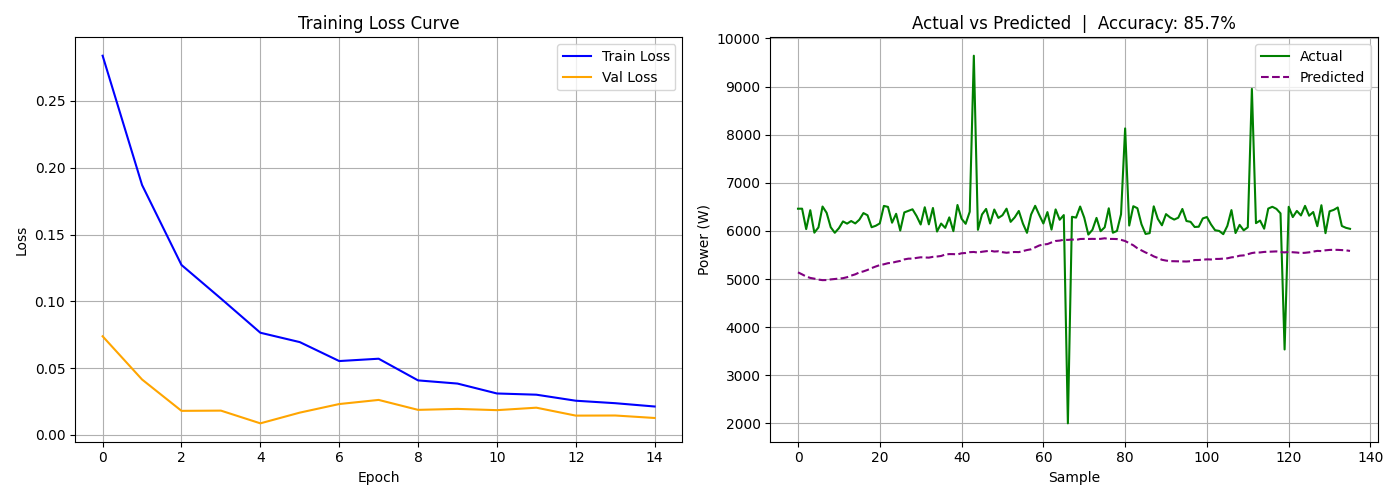
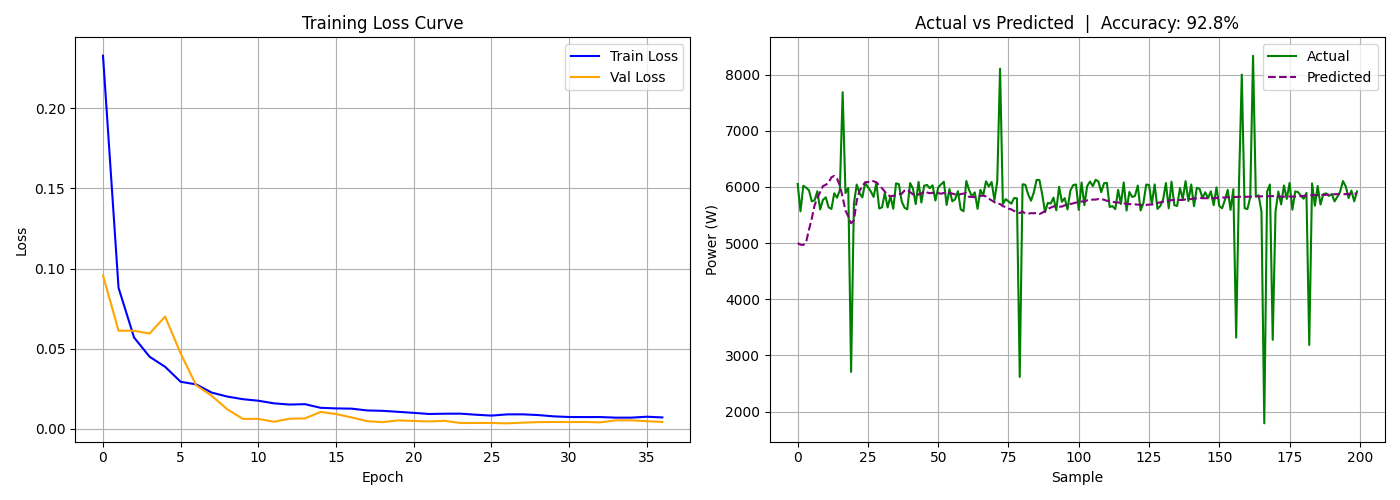
Updated for hosting website live

diff --git a/frontend/script.js b/frontend/script.js
@@ -3,10 +3,10 @@ const API = "";
 
 // ── Tab titles ──
 const tabTitles = {
-  dashboard:  "Overview Dashboard",
+  dashboard: "Overview Dashboard",
   prediction: "LSTM Prediction",
-  history:    "Energy History",
-  alerts:     "Active Alerts"
+  history: "Energy History",
+  alerts: "Active Alerts"
 };
 
 function showTab(name, btn) {
@@ -16,9 +16,9 @@ function showTab(name, btn) {
   btn.classList.add("active");
   document.getElementById("tab-title").textContent = tabTitles[name];
 
-  if (name === "history")    loadHistory();
+  if (name === "history") loadHistory();
   if (name === "prediction") loadPrediction();
-  if (name === "alerts")     loadAlerts();
+  if (name === "alerts") loadAlerts();
 }
 
 // ── Clock ──
@@ -29,10 +29,10 @@ setInterval(() => {
 
 // ── Live chart setup ──
 const liveLabels = [];
-const liveData   = [];
+const liveData = [];
 const MAX_POINTS = 20;
 
-const liveCtx   = document.getElementById("liveChart").getContext("2d");
+const liveCtx = document.getElementById("liveChart").getContext("2d");
 const liveChart = new Chart(liveCtx, {
   type: "line",
   data: {
@@ -70,7 +70,7 @@ const liveChart = new Chart(liveCtx, {
 });
 
 // ── Prediction chart (dashboard tab) ──
-const predCtx   = document.getElementById("predChart").getContext("2d");
+const predCtx = document.getElementById("predChart").getContext("2d");
 const predChart = new Chart(predCtx, {
   type: "line",
   data: {
@@ -108,7 +108,7 @@ const predChart = new Chart(predCtx, {
 });
 
 // ── Forecast chart (Prediction tab) ──
-const forecastCtx   = document.getElementById("forecastChart").getContext("2d");
+const forecastCtx = document.getElementById("forecastChart").getContext("2d");
 const forecastChart = new Chart(forecastCtx, {
   type: "line",
   data: {
@@ -150,7 +150,7 @@ const forecastChart = new Chart(forecastCtx, {
 // ══════════════════════════════════════
 async function fetchStatus() {
   try {
-    const res  = await fetch(`${API}/api/status`);
+    const res = await fetch(`${API}/api/status`);
     const data = await res.json();
 
     if (data.error) {
@@ -185,7 +185,7 @@ async function fetchStatus() {
     liveChart.update();
 
     // Update system status sidebar
-    updateSystemStatus("server",    true);
+    updateSystemStatus("server", true);
     updateSystemStatus("simulator", data.simulator_active);
 
     // Generate AI suggestions
@@ -193,7 +193,7 @@ async function fetchStatus() {
 
   } catch (err) {
     // Server not reachable
-    updateSystemStatus("server",    false);
+    updateSystemStatus("server", false);
     updateSystemStatus("simulator", false);
   }
 }
@@ -203,17 +203,17 @@ function updateSystemStatus(component, isOnline) {
   let elId = `${component}-status`;
   if (component === "server") elId = "srv-status";
   if (component === "simulator") elId = "esp-status";
-  
+
   const el = document.getElementById(elId);
   if (!el) return;
 
   if (component === "server") {
     el.textContent = isOnline ? "● Online" : "● Offline";
-    el.className   = isOnline ? "ok" : "warn";
+    el.className = isOnline ? "ok" : "warn";
   }
   if (component === "simulator") {
     el.textContent = isOnline ? "● Sending data" : "● Not running";
-    el.className   = isOnline ? "ok" : "warn";
+    el.className = isOnline ? "ok" : "warn";
   }
 }
 
@@ -285,7 +285,7 @@ function generateSuggestions(powerKw, temp) {
 // ══════════════════════════════════════
 async function fetchAlerts() {
   try {
-    const res  = await fetch(`${API}/api/alerts`);
+    const res = await fetch(`${API}/api/alerts`);
     const data = await res.json();
 
     const count = data.count || 0;
@@ -309,8 +309,8 @@ async function fetchAlerts() {
 // ══════════════════════════════════════
 async function loadHistory() {
   try {
-    const res   = await fetch(`${API}/api/readings?limit=20`);
-    const data  = await res.json();
+    const res = await fetch(`${API}/api/readings?limit=20`);
+    const data = await res.json();
     const tbody = document.getElementById("history-tbody");
 
     if (!data.readings || data.readings.length === 0) {
@@ -327,9 +327,9 @@ async function loadHistory() {
       const time = new Date(r.timestamp + "Z").toLocaleTimeString();
       return `<tr>
         <td>${time}</td>
-        <td>${r.voltage  ?? "--"}</td>
-        <td>${r.current  ?? "--"}</td>
-        <td>${r.power    ?? "--"}</td>
+        <td>${r.voltage ?? "--"}</td>
+        <td>${r.current ?? "--"}</td>
+        <td>${r.power ?? "--"}</td>
         <td>${r.temperature ?? "--"}</td>
       </tr>`;
     }).join("");
@@ -345,7 +345,7 @@ async function loadHistory() {
 // ══════════════════════════════════════
 async function loadPrediction() {
   try {
-    const res  = await fetch(`${API}/api/prediction`);
+    const res = await fetch(`${API}/api/prediction`);
     const data = await res.json();
 
     if (data.message || !data.predictions) {
@@ -361,22 +361,22 @@ async function loadPrediction() {
     const valuesW = data.predictions.map(p => p.power_w);
     const valuesKW = data.predictions.map(p => p.power_kw);
 
-    predChart.data.labels                = labels;
-    predChart.data.datasets[0].data      = valuesW;
+    predChart.data.labels = labels;
+    predChart.data.datasets[0].data = valuesW;
     predChart.update();
 
     // Update large forecast chart
-    forecastChart.data.labels           = labels;
+    forecastChart.data.labels = labels;
     forecastChart.data.datasets[0].data = valuesKW;
     forecastChart.update();
 
     // Fill prediction table
     const tbody = document.getElementById("pred-tbody");
-    
+
     // Dynamic logic based on Average + Variance (Standard Deviation)
     const sumKw = data.predictions.reduce((acc, p) => acc + p.power_kw, 0);
     const avgKw = sumKw / data.predictions.length;
-    
+
     const variance = data.predictions.reduce((acc, p) => acc + Math.pow(p.power_kw - avgKw, 2), 0) / data.predictions.length;
     let stdDev = Math.sqrt(variance);
     if (stdDev < 0.02) stdDev = 0.02; // Minimum variation
@@ -388,15 +388,15 @@ async function loadPrediction() {
       let status = "Normal";
       let bg = "rgba(0, 229, 160, 0.15)";
       let color = "#00e5a0";
-      
+
       if (stdDev <= 0.02 && Math.abs(p.power_kw - avgKw) < 0.05) {
         // Almost flat line, no real peaks
         status = "Normal";
-      } else if (p.power_kw >= thresholdPeak) { 
+      } else if (p.power_kw >= thresholdPeak) {
         status = "Peak"; color = "#ef4444"; bg = "rgba(239, 68, 68, 0.15)";
-      } else if (p.power_kw >= thresholdHigh) { 
+      } else if (p.power_kw >= thresholdHigh) {
         status = "High"; color = "#f97316"; bg = "rgba(249, 115, 22, 0.15)";
-      } else if (i > 0 && p.power_kw > arr[i-1].power_kw) { 
+      } else if (i > 0 && p.power_kw > arr[i - 1].power_kw) {
         status = "Rising"; color = "#eab308"; bg = "rgba(234, 179, 8, 0.15)";
       }
 
@@ -404,7 +404,7 @@ async function loadPrediction() {
 
       return `
       <tr>
-        <td>${new Date(p.time + "Z").toLocaleTimeString([], {hour: '2-digit', minute:'2-digit'})}</td>
+        <td>${new Date(p.time + "Z").toLocaleTimeString([], { hour: '2-digit', minute: '2-digit' })}</td>
         <td>${p.power_kw.toFixed(3)} kW</td>
         <td>₹${estCost}</td>
         <td><span style="background: ${bg}; color: ${color}; padding: 4px 8px; border-radius: 4px; font-size: 11px; font-weight: bold;">${status}</span></td>
@@ -414,8 +414,29 @@ async function loadPrediction() {
     // Calculate overall cost and AI insights
     let totalKwh = data.predictions.reduce((sum, p) => sum + p.power_kw, 0);
     let totalCost = totalKwh * 8.5; // Rs. 8.5 per kWh
-    let potentialSavings = totalCost * 0.15; // 15% savings estimate
-    
+
+    // Calculate meaningful savings based on peak/high threshold load shifting
+    let potentialSavings = 0;
+    let savingsReason = "";
+
+    data.predictions.forEach(p => {
+      if (p.power_kw >= thresholdPeak) {
+        // Assume 25% savings by shifting peak load to off-peak hours
+        potentialSavings += (p.power_kw * 8.5) * 0.25;
+      } else if (p.power_kw >= thresholdHigh) {
+        // Assume 15% savings by optimizing high load
+        potentialSavings += (p.power_kw * 8.5) * 0.15;
+      }
+    });
+
+    if (potentialSavings > 0) {
+      savingsReason = "Based on reducing Peak usage by 25% & High usage by 15% through load shifting.";
+    } else {
+      // If no peaks, offer a baseline 5% standby optimization
+      potentialSavings = totalCost * 0.05;
+      savingsReason = "Based on a baseline 5% optimization of standby devices (no peak usage detected).";
+    }
+
     let insightsHtml = `
       <style>@keyframes spin { 100% { transform: rotate(360deg); } }</style>
       <div style="display: flex; gap: 16px; margin-bottom: 20px; flex-wrap: wrap;">
@@ -431,6 +452,7 @@ async function loadPrediction() {
           <div>
             <div style="font-size: 11px; color: #64748b; text-transform: uppercase; letter-spacing: 0.5px;">Potential Savings</div>
             <div style="font-size: 28px; font-weight: bold; color: #10b981; margin-top: 4px;">~₹${potentialSavings.toFixed(2)}</div>
+            <div style="font-size: 10px; color: #94a3b8; margin-top: 6px; line-height: 1.3; max-width: 250px;">${savingsReason}</div>
           </div>
         </div>
       </div>
@@ -442,7 +464,7 @@ async function loadPrediction() {
         </div>
       </div>
     `;
-    
+
     document.getElementById("pred-insights").innerHTML = insightsHtml;
 
     // Call backend API for Gemini insights
@@ -457,8 +479,8 @@ async function loadPrediction() {
         document.getElementById("ai-insights-container").innerHTML = aiData.html;
       }
     } catch (e) {
-       console.log("Failed to load AI insights", e);
-       document.getElementById("ai-insights-container").innerHTML = `
+      console.log("Failed to load AI insights", e);
+      document.getElementById("ai-insights-container").innerHTML = `
         <div class="suggest-item" style="border-left: 4px solid #ef4444; background: rgba(239, 68, 68, 0.05);">
           <span class="suggest-icon">⚠️</span>
           <div><strong>Connection Error:</strong> Could not connect to the backend AI service.</div>
@@ -476,9 +498,9 @@ async function loadPrediction() {
 // ══════════════════════════════════════
 async function loadAlerts() {
   try {
-    const res  = await fetch(`${API}/api/alerts`);
+    const res = await fetch(`${API}/api/alerts`);
     const data = await res.json();
-    const div  = document.getElementById("alerts-list");
+    const div = document.getElementById("alerts-list");
 
     if (!data.alerts || data.count === 0) {
       div.innerHTML = `
@@ -511,6 +533,6 @@ async function loadAlerts() {
 // START
 // ══════════════════════════════════════
 fetchStatus();
-setInterval(fetchStatus,  5000);   // live data every 5 seconds
+setInterval(fetchStatus, 5000);   // live data every 5 seconds
 fetchAlerts();
 setInterval(fetchAlerts, 10000);   // alerts every 10 seconds

diff --git a/frontend/index.html b/frontend/index.html
@@ -162,6 +162,6 @@
 
   </div><!-- /main -->
 
-  <script src="script.js"></script>
+  <script src="script.js?v=2"></script>
 </body>
 </html>

diff --git a/backend/database.py b/backend/database.py
@@ -1,11 +1,15 @@
 # database.py
 # pyrefly: ignore [missing-import]
+import os
+# pyrefly: ignore [missing-import]
 from pymongo import MongoClient
 from datetime import datetime
 
 # Connect to MongoDB (must be running on your PC)
 # Install MongoDB from: https://www.mongodb.com/try/download/community
-client = MongoClient("mongodb://localhost:27017/")
+# Uses MONGO_URL environment variable for cloud hosting, falls back to localhost.
+MONGO_URL = os.getenv("MONGO_URL", "mongodb://localhost:27017/")
+client = MongoClient(MONGO_URL)
 
 # This creates the database and collections automatically
 db = client["energy_ai_db"]